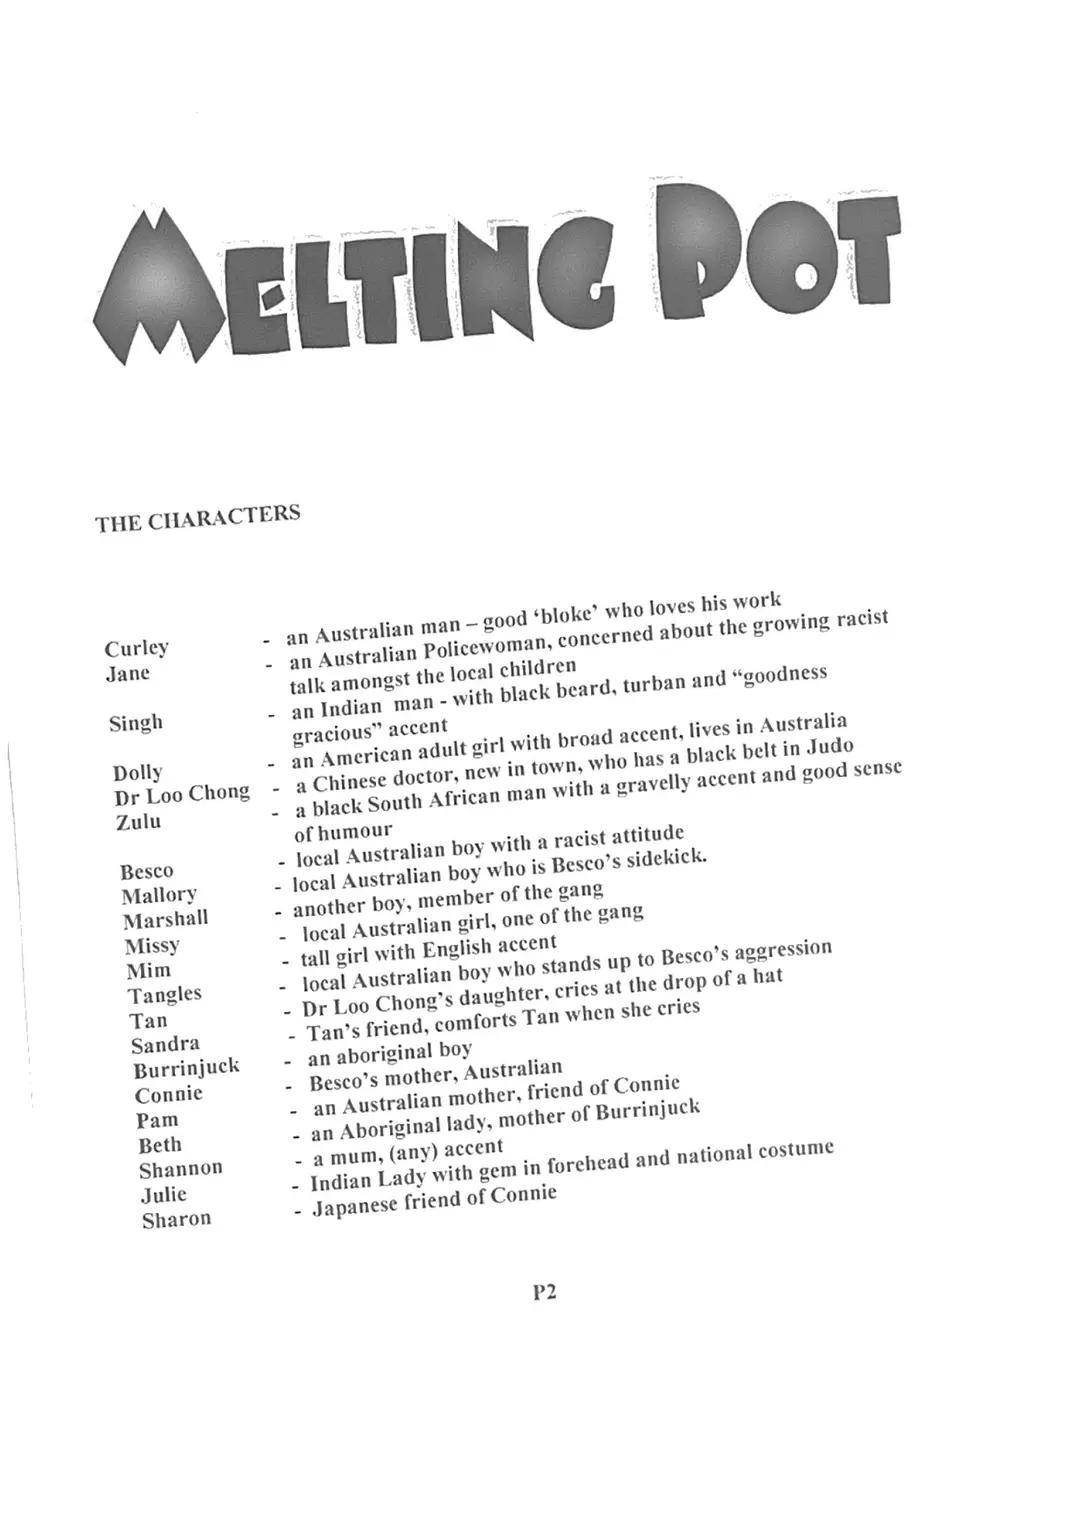
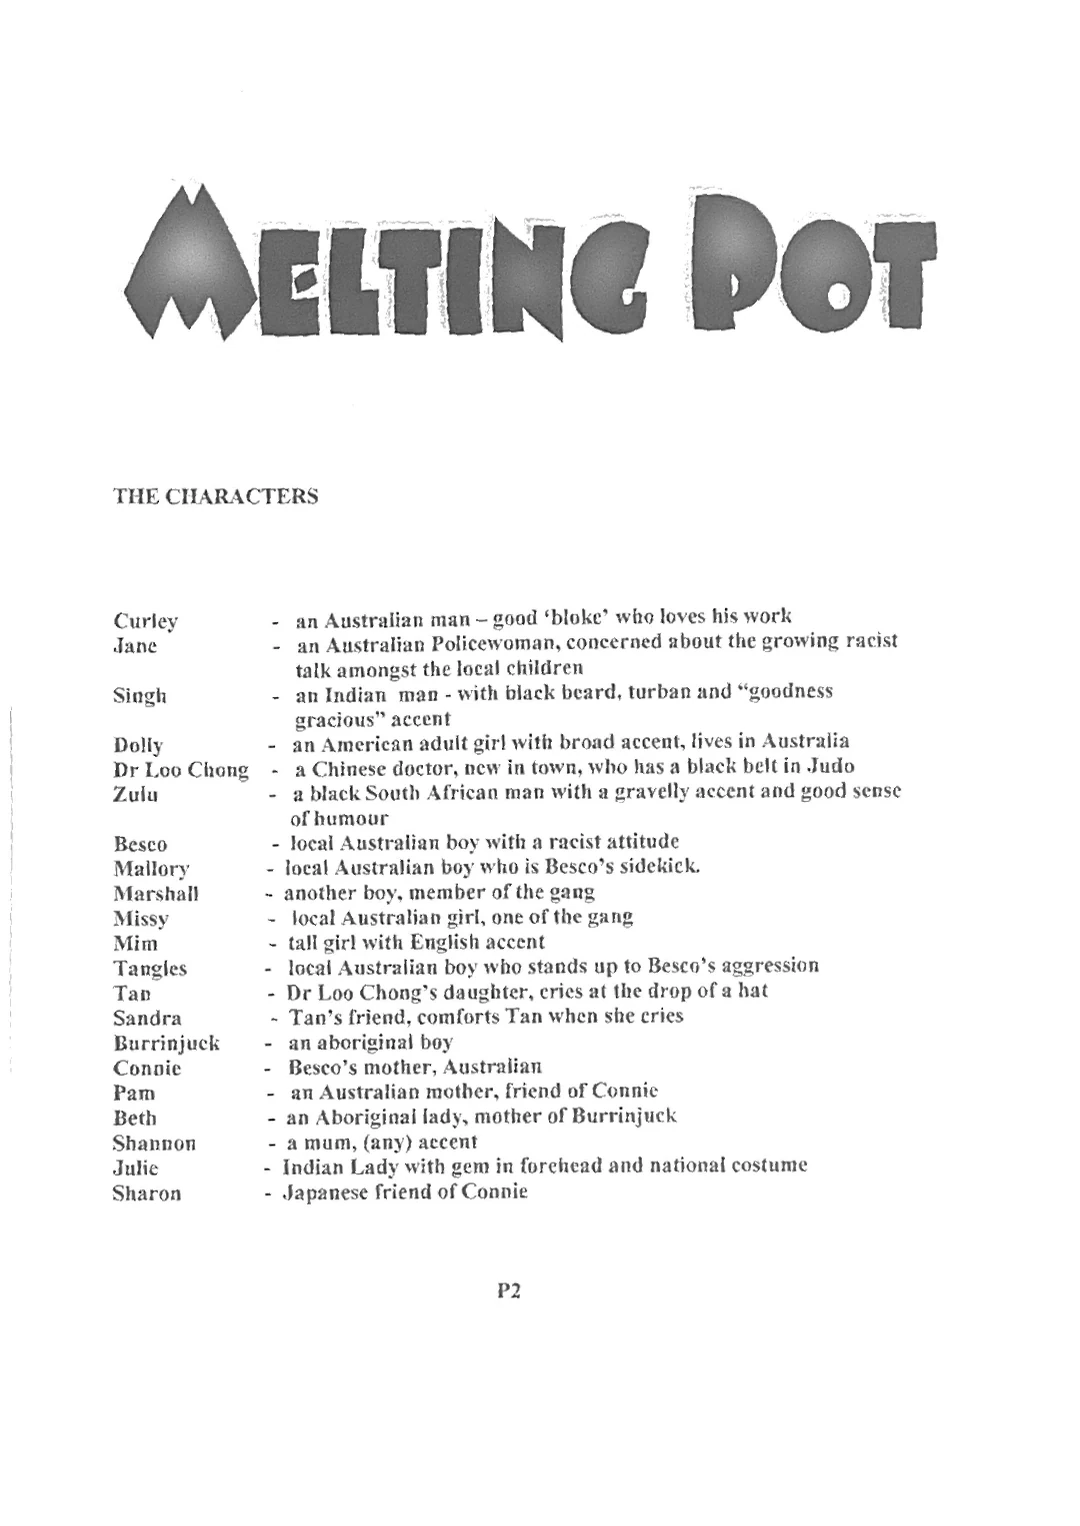
Improve play and Chinese Chimes readers

diff --git a/components/BookReader.jsx b/components/BookReader.jsx
@@ -9,10 +9,21 @@ const HTMLFlipBook = dynamic(() => import("react-pageflip"), { ssr: false });
 const WINDOW = 2;
 
 export default function BookReader({ manifest }) {
-  const { slug, pageCount, aspect, hasDownload, title } = manifest;
+  const {
+    slug,
+    pageCount,
+    aspect,
+    hasDownload,
+    title,
+    contentStartPage = 1,
+    largePages = false,
+    sharedCover = null,
+  } = manifest;
   const [w, h] = aspect;
+  const contentStartIndex = Math.min(Math.max(contentStartPage - 1, 0), pageCount - 1);
+  const readablePageCount = pageCount - contentStartIndex;
   const bookRef = useRef(null);
-  const [current, setCurrent] = useState(0);
+  const [current, setCurrent] = useState(contentStartIndex);
   const [mounted, setMounted] = useState(false);
   const [portrait, setPortrait] = useState(false);
   const [reduceMotion, setReduceMotion] = useState(false);
@@ -46,11 +57,24 @@ export default function BookReader({ manifest }) {
   }, [mounted, current, pageCount, slug]);
 
   const flip = useCallback((dir) => {
+    if (largePages) {
+      setCurrent((page) => Math.min(Math.max(page + dir, 0), pageCount - 1));
+      return;
+    }
     const api = bookRef.current?.pageFlip?.();
     if (!api) return;
     if (dir > 0) api.flipNext();
     else api.flipPrev();
-  }, []);
+  }, [largePages, pageCount]);
+
+  const openPhysicalPage = useCallback((page) => {
+    const target = Math.min(Math.max(page, 0), pageCount - 1);
+    if (largePages) setCurrent(target);
+    else {
+      const api = bookRef.current?.pageFlip?.();
+      if (api) api.flip(target);
+    }
+  }, [largePages, pageCount]);
 
   useEffect(() => {
     const onKey = (e) => {
@@ -68,11 +92,10 @@ export default function BookReader({ manifest }) {
     e.preventDefault();
     const n = parseInt(jump, 10);
     if (Number.isNaN(n)) return;
-    const target = Math.min(Math.max(n, 1), pageCount) - 1;
-    const api = bookRef.current?.pageFlip?.();
-    if (api) api.flip(target);
+    const target = contentStartIndex + Math.min(Math.max(n, 1), readablePageCount) - 1;
+    openPhysicalPage(target);
     setJump("");
-  }, [jump, pageCount]);
+  }, [contentStartIndex, jump, openPhysicalPage, readablePageCount]);
 
   // Pages: cover plus anything near the current spread get a real image;
   // everything else is a paper-coloured placeholder at the same aspect.
@@ -99,10 +122,31 @@ export default function BookReader({ manifest }) {
     return out;
   }, [pageCount, current, slug, title, w, h]);
 
+  const imageNumber = String(current + 1).padStart(3, "0");
+  const counter = current < contentStartIndex
+    ? `Introduction ${current + 1} / ${contentStartIndex}`
+    : `Page ${current - contentStartIndex + 1} / ${readablePageCount}`;
+
   return (
-    <div className="bkr">
+    <div className={"bkr" + (largePages ? " bkr-large-pages" : "")}>
+      {sharedCover ? (
+        <figure className="bkr-shared-cover">
+          <img src={sharedCover} width="1080" height="607" alt="The Chinese Chimes together" />
+          <figcaption>The Chinese Chimes</figcaption>
+        </figure>
+      ) : null}
       <div className="bkr-stage">
-        {mounted ? (
+        {mounted && largePages ? (
+          <div className="bkr-single-page" style={{ aspectRatio: `${w} / ${h}` }}>
+            <img
+              src={`/books/${slug}/p${imageNumber}.webp`}
+              alt={`Page ${current + 1} of ${title}`}
+              width={w}
+              height={h}
+              decoding="async"
+            />
+          </div>
+        ) : mounted ? (
           <HTMLFlipBook
             key={portrait ? "portrait" : "spread"}
             ref={bookRef}
@@ -128,8 +172,8 @@ export default function BookReader({ manifest }) {
         ) : (
           <div className="bkr-cover-wait" style={{ aspectRatio: `${w} / ${h}` }}>
             <img
-              src={`/books/${slug}/p001.webp`}
-              alt={`Cover of ${title}`}
+              src={`/books/${slug}/p${String(contentStartIndex + 1).padStart(3, "0")}.webp`}
+              alt={`Opening page of ${title}`}
               width={w}
               height={h}
               decoding="async"
@@ -143,7 +187,7 @@ export default function BookReader({ manifest }) {
           <span aria-hidden="true">&#8592;</span>
         </button>
         <span className="bkr-counter" aria-live="polite">
-          {Math.min(current + 1, pageCount)} / {pageCount}
+          {counter}
         </span>
         <button type="button" className="bkr-btn" onClick={() => flip(1)} aria-label="Next page">
           <span aria-hidden="true">&#8594;</span>
@@ -155,7 +199,7 @@ export default function BookReader({ manifest }) {
             type="number"
             inputMode="numeric"
             min="1"
-            max={pageCount}
+            max={readablePageCount}
             placeholder="Page"
             value={jump}
             onChange={(e) => setJump(e.target.value)}
@@ -164,6 +208,11 @@ export default function BookReader({ manifest }) {
             <span aria-hidden="true">&#8629;</span>
           </button>
         </form>
+        {contentStartIndex > 0 ? (
+          <button type="button" className="bkr-introduction" onClick={() => openPhysicalPage(0)}>
+            Introduction
+          </button>
+        ) : null}
         {hasDownload ? (
           <a className="btn b bkr-download" href={`/books/${slug}/${slug}.pdf`} download>
             Download PDF

diff --git a/app/site.css b/app/site.css
@@ -240,13 +240,19 @@ footer nav a.fb::before{content:"";width:17px;height:17px;flex:none;background:c
 .bkr-cover-wait{width:min(92vw,460px);border:1px solid oklch(0.85 0.02 92);
   box-shadow:4px 5px 0 oklch(0.85 0.02 92);}
 .bkr-cover-wait img{display:block;width:100%;height:auto;}
+.bkr-shared-cover{width:min(100%,440px);margin:0 auto 20px;text-align:center;}
+.bkr-shared-cover img{display:block;width:100%;height:auto;object-fit:contain;}
+.bkr-shared-cover figcaption{margin-top:5px;color:var(--blue);font-weight:700;letter-spacing:.08em;text-transform:uppercase;font-size:.78rem;}
+.bkr-single-page{width:min(96vw,1040px);max-width:100%;margin:0 auto;background:white;border:1px solid oklch(0.85 0.02 92);}
+.bkr-single-page img{display:block;width:100%;height:100%;object-fit:contain;background:white;}
+.bkr-large-pages .bkr-stage{padding-top:0;}
 .bkr-controls{display:flex;align-items:center;justify-content:center;gap:14px;flex-wrap:wrap;
   border-top:var(--rule);padding-top:18px;}
 .bkr-btn{font-family:"Lora",Georgia,serif;font-size:1.45rem;font-weight:700;line-height:1;
   width:48px;height:48px;padding:0;border-radius:50%;
   border:2px solid var(--ink);background:var(--paper);color:var(--ink);cursor:pointer;}
 .bkr-btn:hover{background:var(--ink);color:var(--on);}
-.bkr-counter{font-variant-numeric:tabular-nums;font-size:1.1rem;min-width:5.5ch;text-align:center;}
+.bkr-counter{font-variant-numeric:tabular-nums;font-size:1.1rem;min-width:9.5ch;text-align:center;}
 .bkr-jump{display:flex;align-items:stretch;height:48px;border:2px solid var(--ink);border-radius:24px;
   overflow:hidden;background:var(--paper);}
 .bkr-jump:focus-within{outline:2px solid var(--blue);outline-offset:2px;}
@@ -255,7 +261,10 @@ footer nav a.fb::before{content:"";width:17px;height:17px;flex:none;background:c
 .bkr-jump input::placeholder{color:var(--soft);opacity:1;}
 .bkr-jump button{width:42px;padding:0;border:0;background:transparent;color:var(--ink);font:700 1.25rem/1 "Lora",Georgia,serif;cursor:pointer;}
 .bkr-jump button:hover{background:var(--ink);color:var(--on);}
+.bkr-introduction{min-height:44px;padding:5px 8px;border:0;background:transparent;color:var(--blue);font:700 1rem/1.2 "Lora",Georgia,serif;cursor:pointer;}
+.bkr-introduction:hover{text-decoration:underline;text-underline-offset:4px;}
 .bkr-download{margin-left:6px;}
+.reading-audio{display:flex;justify-content:center;margin:24px 0 4px;}
 @media (max-width:480px){
   .bkr-controls{gap:10px;}
   .bkr-download{margin-left:0;}
@@ -291,16 +300,17 @@ footer nav a.fb::before{content:"";width:17px;height:17px;flex:none;background:c
 .btnrow{display:flex;gap:12px;align-items:center;flex-wrap:wrap;margin-top:10px;}
 .story-grid figcaption{font-size:1.18rem;font-weight:700;margin-top:5px;}
 .audiobook-list{list-style:none;margin:0;padding:0;border-top:var(--rule);}
-.audiobook-list>li{display:grid;grid-template-columns:48px minmax(0,1fr) auto;gap:18px;align-items:center;padding:24px 0;border-bottom:var(--rule);}
+.audiobook-list>li{display:grid;grid-template-columns:48px 132px minmax(0,1fr) auto;gap:18px;align-items:center;padding:24px 0;border-bottom:var(--rule);}
 .audiobook-number{font-family:"Dynalight","Times New Roman",cursive;font-size:2.4rem;line-height:1;color:var(--red);text-align:center;}
 .audiobook-list>li:nth-child(even) .audiobook-number{color:var(--blue);}
+.audiobook-cover{display:block;width:132px;height:auto;object-fit:cover;}
 .audiobook-copy h3{font-size:1.32rem;}
 .audiobook-copy p{margin:2px 0 7px;color:var(--soft);font-size:.96rem;}
 .audiobook-play{display:inline-flex;align-items:center;gap:10px;min-height:44px;padding:4px 0;border:0;background:transparent;
   color:var(--blue);font:inherit;font-size:.98rem;font-weight:700;cursor:pointer;}
 .audiobook-play:hover,.audiobook-play.playing{color:var(--red);}
 .audiobook-play-icon{display:grid;place-items:center;width:36px;height:36px;border:2px solid currentColor;border-radius:50%;font-size:.72rem;}
-.audiobook-actions{display:flex;align-items:center;gap:6px;}
+.audiobook-actions{display:flex;align-items:center;justify-content:flex-end;gap:10px;flex-wrap:wrap;}
 .story-read-link{display:inline-flex;align-items:center;min-height:44px;padding:4px 8px;color:var(--red-deep);font-weight:700;text-underline-offset:4px;}
 .item-actions{display:flex;align-items:center;gap:6px;margin-top:8px;}
 .item-primary-link{display:inline-flex;align-items:center;min-height:44px;color:var(--blue);font-weight:700;text-underline-offset:4px;}
@@ -367,7 +377,9 @@ button:disabled{cursor:wait;opacity:.65;}
   .cover-link{width:min(220px,65vw);}
   .music-ornament{display:none;}
   .audiobook-list>li{grid-template-columns:38px minmax(0,1fr);gap:12px 14px;align-items:start;}
-  .audiobook-actions{grid-column:2;justify-content:space-between;}
+  .audiobook-cover,.audiobook-copy,.audiobook-actions{grid-column:2;}
+  .audiobook-cover{width:min(100%,260px);}
+  .audiobook-actions{justify-content:flex-start;}
   .audiobook-number{font-size:2rem;padding-top:4px;}
 }
 @media (max-width:480px){

diff --git a/app/books/page.jsx b/app/books/page.jsx
@@ -18,6 +18,8 @@ const stories = [
   { video: "cEuPWVPPN0o", title: "Little Ray", readSlug: "little-ray", audio: "/audio/chinese-chimes-audiobooks/little-ray.mp3" },
 ];
 
+const chimesCover = "/images/chinese-chimes-together.webp";
+
 const playOrder = ["melting-pot", "the-other-mans-grass", "tribute-to-calamity-jane", "three-heroes-of-sherwood", "breakout"];
 
 const playAudio = {
@@ -63,7 +65,7 @@ export default async function BooksPage() {
         <div className="wrap">
           <div className="section-heading">
             <h2 className="script" id="stories-title">Chinese Chimes stories</h2>
-            <p>Four stories for young readers, each with a moral. Listen to the audiobooks here or read them online.</p>
+            <p>Four stories for young readers, each with a moral. Read them online or listen to the audiobooks.</p>
           </div>
           <ol className="audiobook-list">
             {stories.map((story, storyIndex) => {
@@ -72,13 +74,14 @@ export default async function BooksPage() {
               return (
                 <li key={story.video}>
                   <span className="audiobook-number" aria-hidden="true">{storyIndex + 1}</span>
+                  <img className="audiobook-cover" src={chimesCover} width="1080" height="607" loading="lazy" alt="The Chinese Chimes together" />
                   <div className="audiobook-copy">
                     <h3>{story.title}</h3>
                     <p>Narrated Chinese Chimes audiobook</p>
-                    <Audiobook title={story.title} src={story.audio} />
                   </div>
                   <div className="audiobook-actions">
                     <Link className="story-read-link" href={`/read/${story.readSlug}`}>Read the book</Link>
+                    <Audiobook title={story.title} src={story.audio} />
                     <details className="more-menu">
                       <summary aria-label={`More options for ${story.title}`}><span aria-hidden="true">⋯</span></summary>
                       <div className="more-popover">

diff --git a/app/read/[slug]/page.jsx b/app/read/[slug]/page.jsx
@@ -4,6 +4,7 @@ import path from "node:path";
 import Link from "next/link";
 import { notFound } from "next/navigation";
 import BookReader from "../../../components/BookReader";
+import Audiobook from "../../../components/Audiobook";
 import PurchaseLink from "../../../components/PurchaseLink";
 import { formatAud, playPrice, stripePaymentLink } from "../../../lib/storefront.mjs";
 
@@ -34,6 +35,13 @@ const placeholders = {
   "little-ray": "Little Ray",
 };
 
+const storyAudio = {
+  "funny-fah-learns-when-to-stop": "/audio/chinese-chimes-audiobooks/funny-fah-learns-when-to-stop.mp3",
+  "imaginative-little-mee": "/audio/chinese-chimes-audiobooks/imaginative-little-mee.mp3",
+  "little-hi-doh": "/audio/chinese-chimes-audiobooks/hi-doh.mp3",
+  "little-ray": "/audio/chinese-chimes-audiobooks/little-ray.mp3",
+};
+
 export const dynamicParams = false;
 
 export async function generateStaticParams() {
@@ -53,7 +61,7 @@ export async function generateMetadata({ params }) {
       openGraph: {
         title: entry.title,
         description: entry.blurb,
-        images: [{ url: `/books/${slug}/p001.webp` }],
+        images: [{ url: entry.section === "childrens" ? "/images/chinese-chimes-together.webp" : `/books/${slug}/p001.webp` }],
       },
     };
   }
@@ -177,6 +185,11 @@ export default async function ReadPage({ params }) {
       </header>
       <section aria-label={`Read ${manifest.title}`}>
         <div className="wrap">
+          {storyAudio[slug] ? (
+            <div className="reading-audio">
+              <Audiobook title={manifest.title} src={storyAudio[slug]} />
+            </div>
+          ) : null}
           <BookReader manifest={readerManifest} />
           {ocrText ? (
             <div className="visually-hidden" aria-label={`Full text of ${manifest.title}`}>
